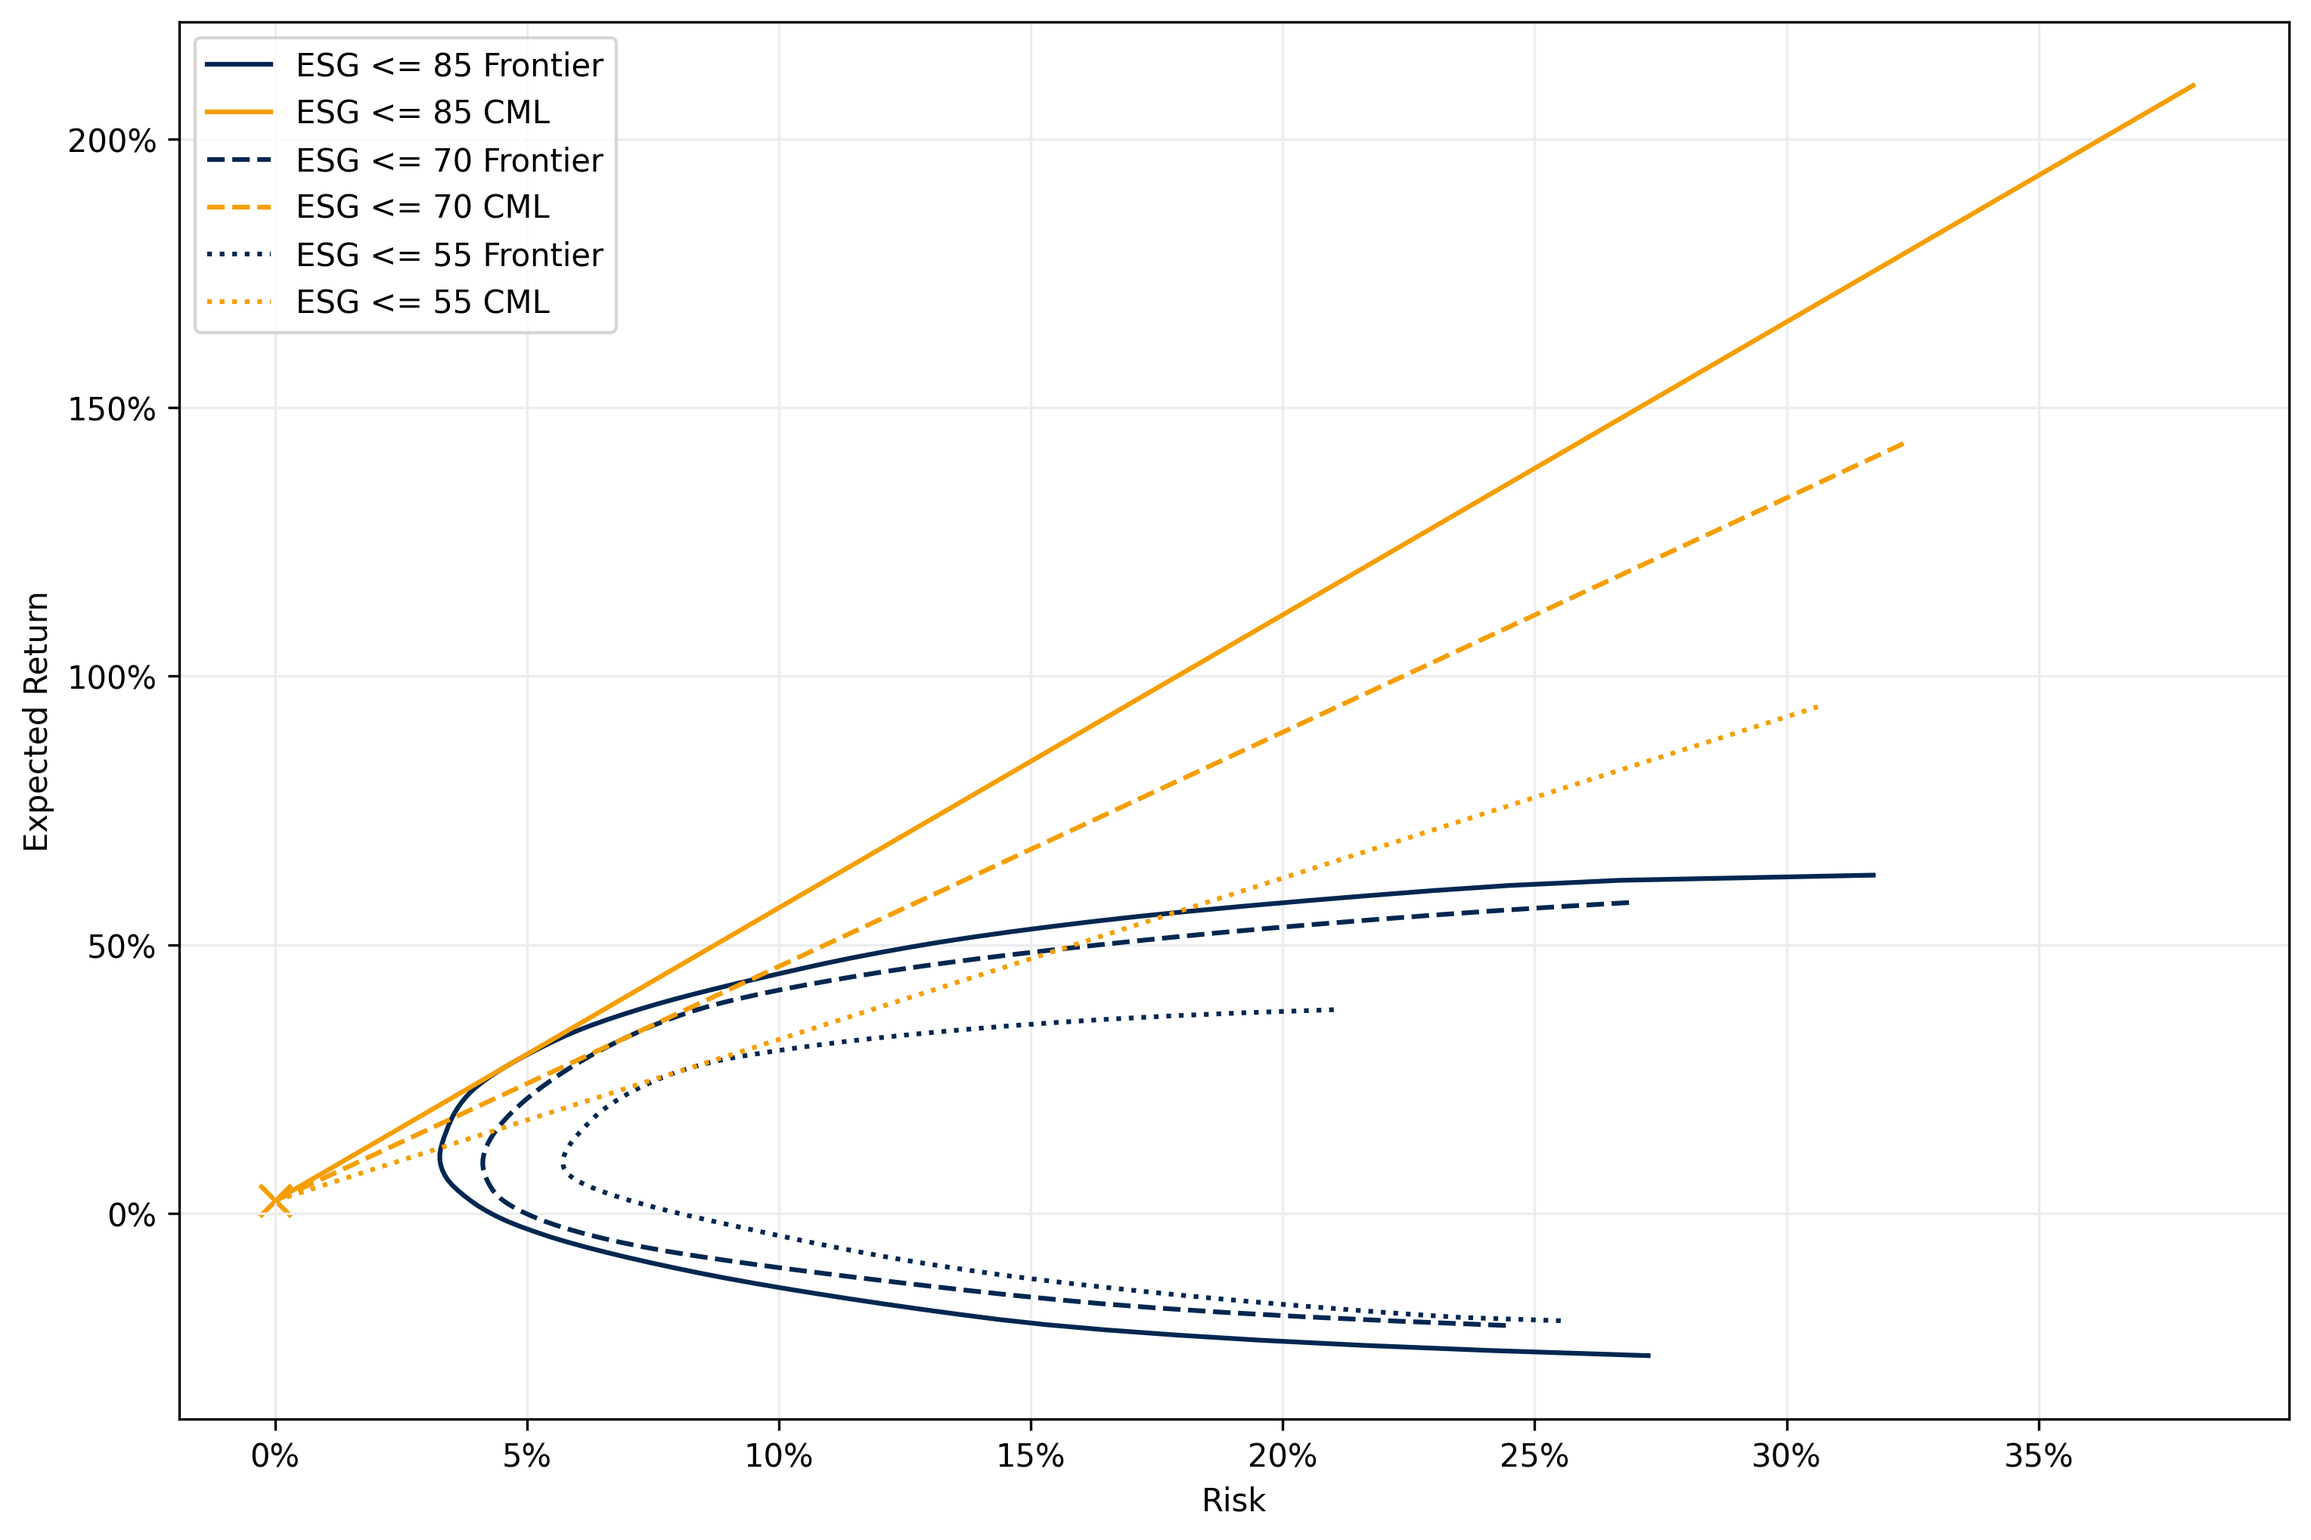
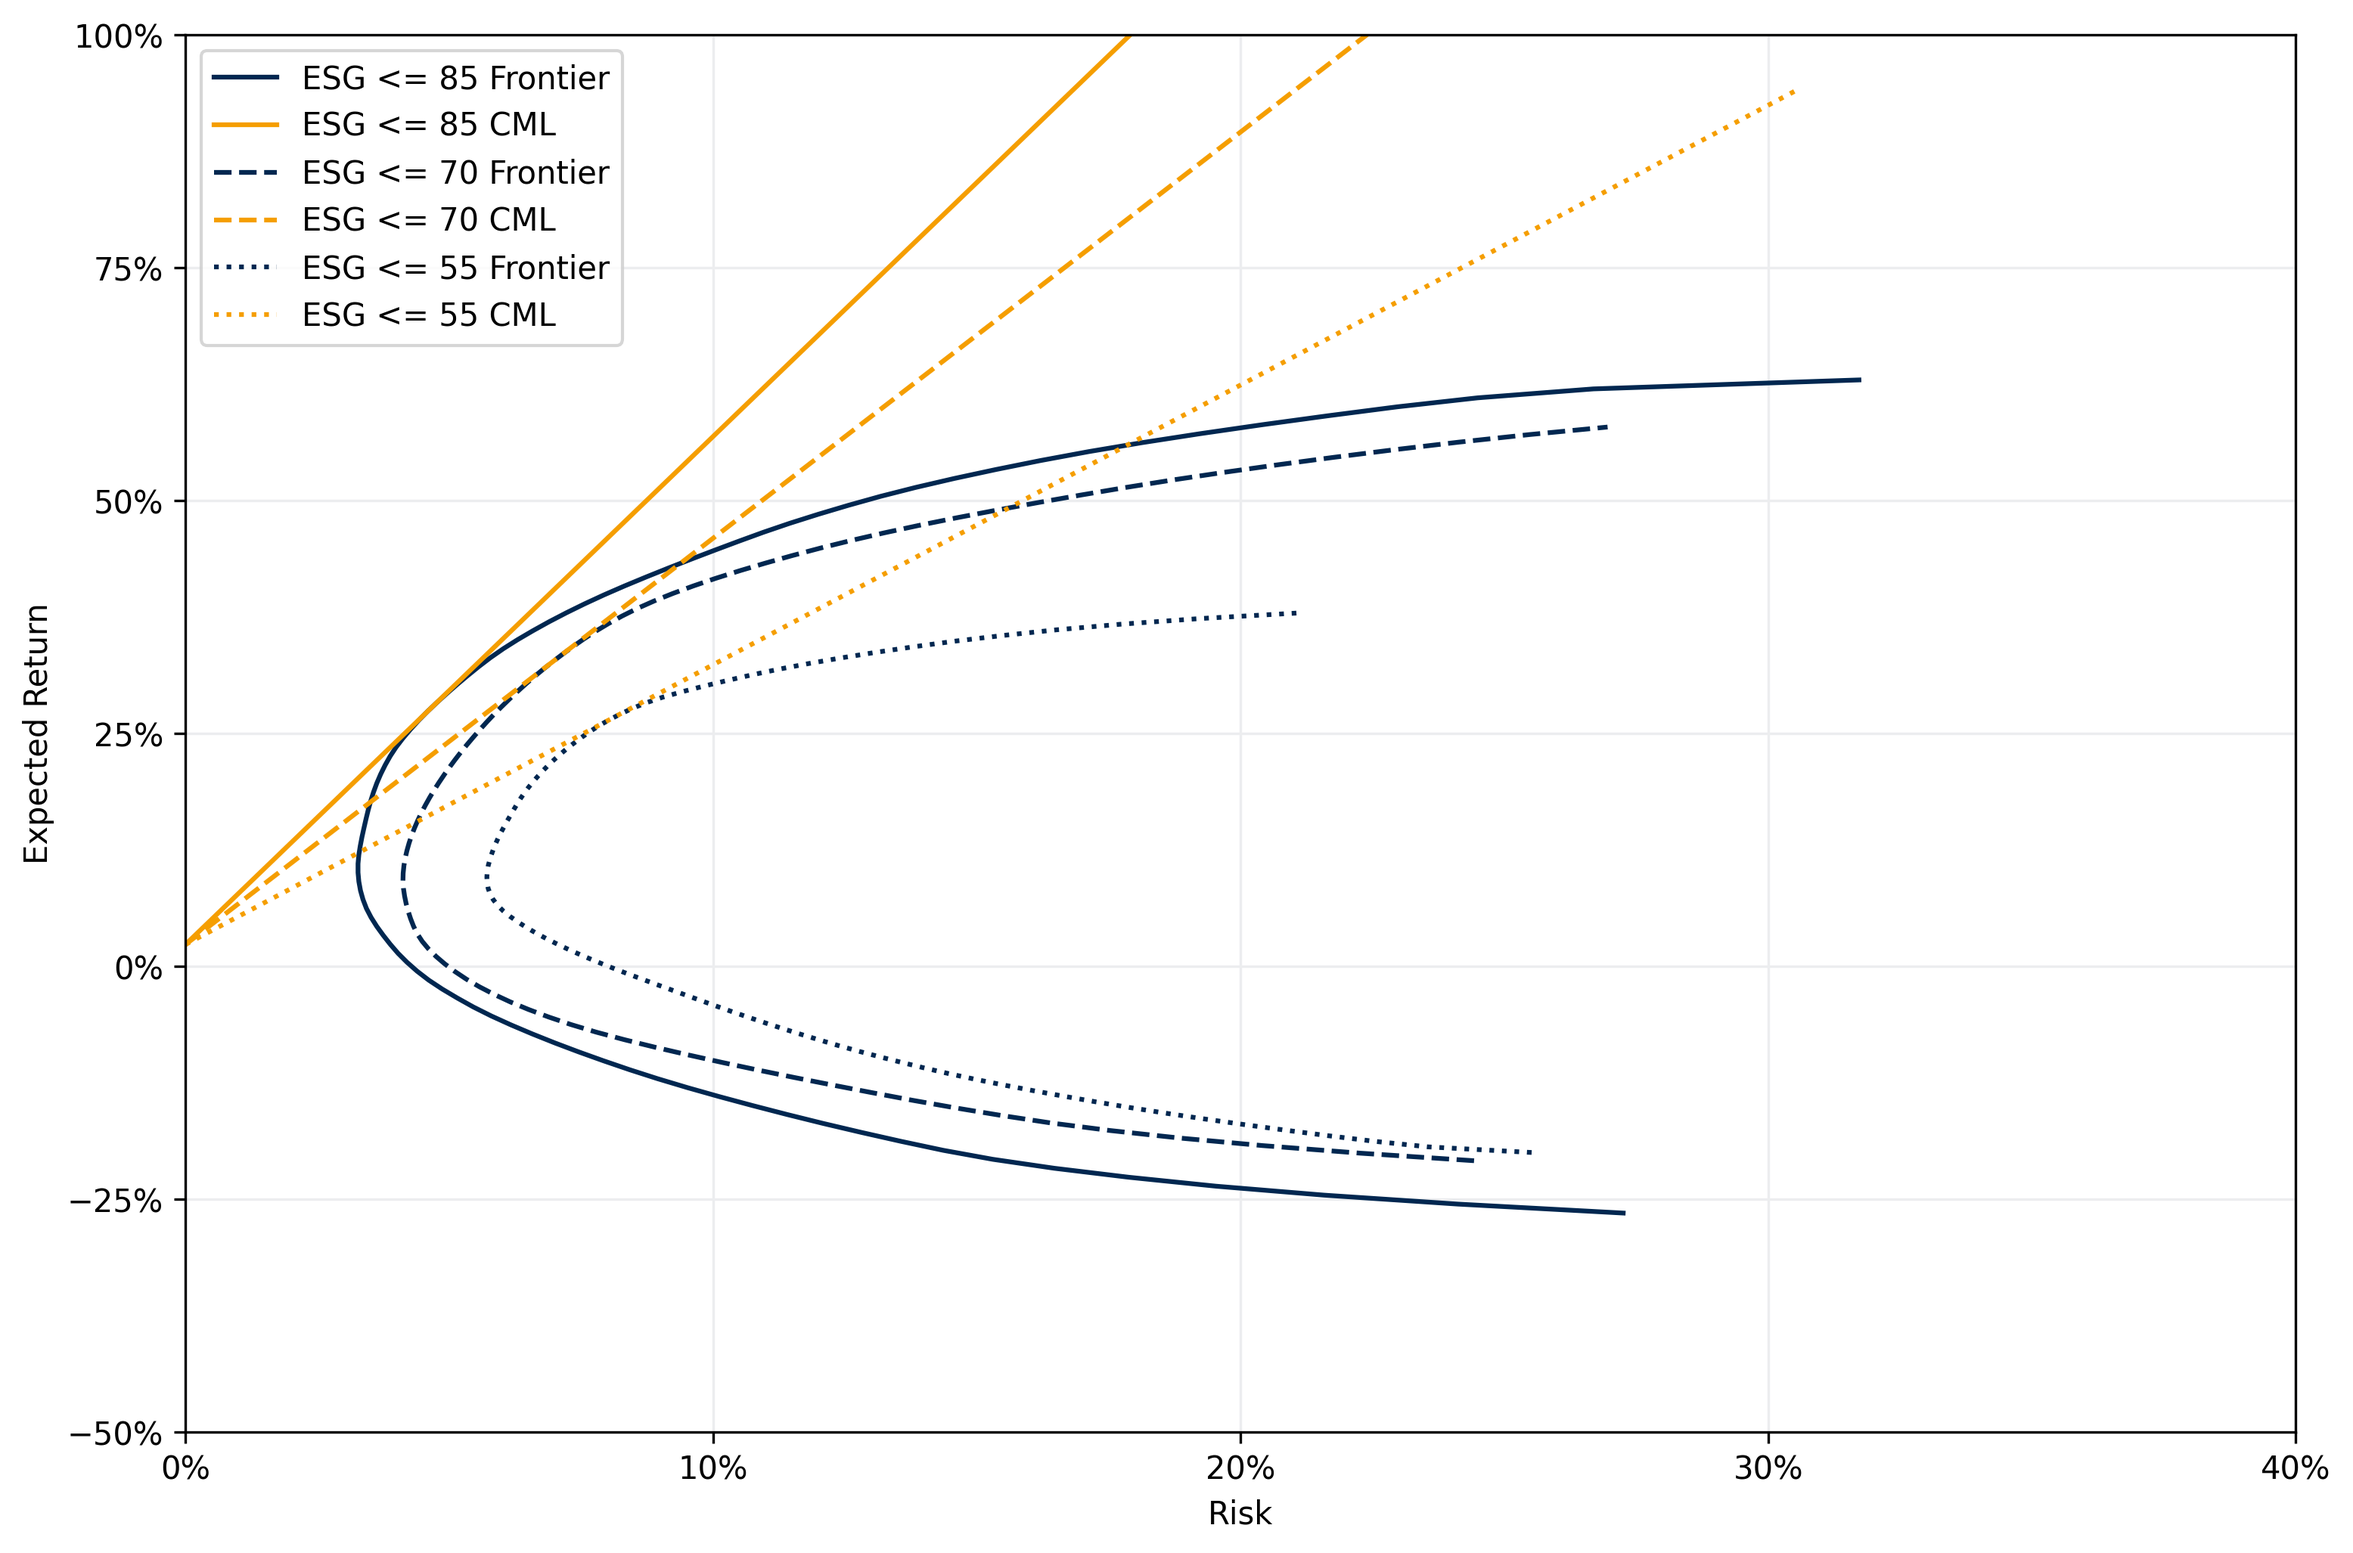
* Add Status Quo

diff --git a/Final/analysis.py b/Final/analysis.py
@@ -328,12 +328,16 @@ def plot_frontiers(frontiers, freq):
 
     plt.gca().xaxis.set_major_formatter(PercentFormatter(1, decimals=0))
     plt.gca().yaxis.set_major_formatter(PercentFormatter(1, decimals=0))
+    plt.xlim(0, 0.4)
+    plt.ylim(-0.5, 1.0)
+    plt.xticks(np.arange(0, 0.41, 0.1))
+    plt.yticks(np.arange(-0.5, 1.01, 0.25))
 
     plt.grid(True, color=grid_color)
 
     plt.xlabel("Risk")
     plt.ylabel("Expected Return")
-    plt.legend()
+    plt.legend(loc="upper left")
     plt.grid(True)
 
     plt.show()
@@ -394,15 +398,19 @@ def capital_market_line(config: RunConfig, frontiers: dict, freq: str):
         type = type + 1
 
     # Risk-free Punkt
-    plt.scatter(0, rf, marker="x", s=100, color=cml_color)
+    #plt.scatter(0, rf, marker="x", s=100, color=cml_color)
 
     plt.gca().xaxis.set_major_formatter(PercentFormatter(1, decimals=0))
     plt.gca().yaxis.set_major_formatter(PercentFormatter(1, decimals=0))
+    plt.xlim(0, 0.4)
+    plt.ylim(-0.5, 1.0)
+    plt.xticks(np.arange(0, 0.41, 0.1))
+    plt.yticks(np.arange(-0.5, 1.01, 0.25))
 
     plt.grid(True, color=grid_color)
     plt.xlabel("Risk")
     plt.ylabel("Expected Return")
-    plt.legend()
+    plt.legend(loc="upper left")
     plt.grid(True)
     if freq == "W":
         plt.savefig("Plots/05-CML2Y.png", dpi=300, bbox_inches='tight')
@@ -508,7 +516,7 @@ def main():
     config = RunConfig(universe="0#.STOXX", endDate="2025-12-31", riskFreeRate2Y=0.02062, riskFreeRate5Y=0.02350)
 
     # Flag: True = gespeicherte DataFrames + config laden, False = neu abrufen
-    use_saved_data = False
+    use_saved_data = True
 
     data_folder = "DataFrame"
     os.makedirs(data_folder, exist_ok=True)
